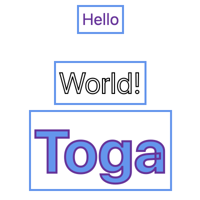
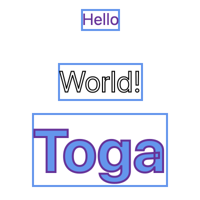
Make Cocoa draw text lines separately

Changed region(s): [[0.12, 0.3, 0.87, 0.96], [0.36, 0.0, 0.63, 0.18]]

diff --git a/testbed/tests/widgets/test_canvas.py b/testbed/tests/widgets/test_canvas.py
@@ -559,6 +559,13 @@ async def test_write_text(canvas, probe):
     hello_font = Font("Droid Serif", 12)
     hello_size = canvas.measure_text(hello_text, hello_font)
 
+    with canvas.Stroke(color=CORNFLOWERBLUE) as stroke:
+        stroke.rect(
+            100 - (hello_size[0] // 2),
+            10,
+            hello_size[0],
+            hello_size[1],
+        )
     with canvas.Fill(color=REBECCAPURPLE) as text_filler:
         text_filler.write_text(
             hello_text,
@@ -567,18 +574,18 @@ async def test_write_text(canvas, probe):
             font=hello_font,
             baseline=Baseline.TOP,
         )
-    with canvas.Stroke(color=CORNFLOWERBLUE) as stroke:
-        stroke.rect(
-            100 - (hello_size[0] // 2) - 4,
-            10 - 4,
-            hello_size[0] + 8,
-            hello_size[1] + 8,
-        )
 
     world_text = "World!"
     world_font = Font("Endor", 22)
     world_size = canvas.measure_text(world_text, font=world_font)
 
+    with canvas.Stroke(color=CORNFLOWERBLUE) as stroke:
+        stroke.rect(
+            100 - (world_size[0] // 2),
+            100 - world_size[1],
+            world_size[0],
+            world_size[1],
+        )
     with canvas.Stroke(line_width=1) as text_filler:
         text_filler.write_text(
             world_text,
@@ -587,18 +594,18 @@ async def test_write_text(canvas, probe):
             font=world_font,
             baseline=Baseline.BOTTOM,
         )
-    with canvas.Stroke(color=CORNFLOWERBLUE) as stroke:
-        stroke.rect(
-            100 - (world_size[0] // 2) - 4,
-            100 - world_size[1] - 4,
-            world_size[0] + 8,
-            world_size[1] + 8,
-        )
 
     toga_text = "Toga"
     toga_font = Font("Droid Serif", 45, weight=BOLD)
     toga_size = canvas.measure_text(toga_text, font=toga_font)
 
+    with canvas.Stroke(color=CORNFLOWERBLUE) as stroke:
+        stroke.rect(
+            100 - (toga_size[0] // 2),
+            150 - (toga_size[1] // 2),
+            toga_size[0],
+            toga_size[1],
+        )
     with canvas.Stroke(color=REBECCAPURPLE) as stroke:
         with stroke.Fill(color=CORNFLOWERBLUE) as text_filler:
             text_filler.write_text(
@@ -608,13 +615,6 @@ async def test_write_text(canvas, probe):
                 font=toga_font,
                 baseline=Baseline.MIDDLE,
             )
-    with canvas.Stroke(color=CORNFLOWERBLUE) as stroke:
-        stroke.rect(
-            100 - (toga_size[0] // 2) - 4,
-            150 - (toga_size[1] // 2) - 4,
-            toga_size[0] + 8,
-            toga_size[1] + 8,
-        )
 
     await probe.redraw("Text should be drawn")
     # 0.07 is quite a high error threshold; it's equivalent to 196 pixels being
@@ -629,7 +629,7 @@ async def test_multiline_text(canvas, probe):
 
     # Vertical guidelines
     X = [10, 75, 140]
-    with canvas.context.Stroke(color=RED, line_width=1) as guideline:
+    with canvas.context.Stroke(color=RED) as guideline:
         for x in X:
             guideline.move_to(x, 0)
             guideline.line_to(x, canvas.style.height)
@@ -651,7 +651,7 @@ async def test_multiline_text(canvas, probe):
         # Empty text
         text_filler.write_text("", X[2], y)
 
-    # Other baselines, with default font but fixed size
+    # Other baselines, with default font but specified size
     y = 130
     guideline.move_to(0, y)
     guideline.line_to(canvas.style.width, y)
@@ -664,13 +664,13 @@ async def test_multiline_text(canvas, probe):
         if baseline == Baseline.TOP:
             top = y
         elif baseline == Baseline.MIDDLE:
-            top = y - (height / 2)
+            top = round(y - (height / 2))
         elif baseline == Baseline.BOTTOM:
             top = y - height
         else:
             pytest.fail("Unknown baseline")
 
-        with canvas.context.Stroke(color=RED, line_width=1) as box:
+        with canvas.context.Stroke(color=CORNFLOWERBLUE) as box:
             box.rect(left, top, width, height)
 
         with canvas.context.Fill() as text_filler:

diff --git a/cocoa/src/toga_cocoa/widgets/canvas.py b/cocoa/src/toga_cocoa/widgets/canvas.py
@@ -19,7 +19,6 @@ from toga_cocoa.libs import (
     NSMutableDictionary,
     NSPoint,
     NSRect,
-    NSScreen,
     NSStrokeColorAttributeName,
     NSStrokeWidthAttributeName,
     NSView,
@@ -88,11 +87,6 @@ class Canvas(Widget):
 
         # Add the layout constraints
         self.add_constraints()
-
-        print(
-            "FIXME scale factors",
-            [screen.backingScaleFactor for screen in NSScreen.screens],
-        )
 
     def redraw(self):
         self.native.needsDisplay = True
@@ -266,30 +260,42 @@ class Canvas(Widget):
         )
         return text_string
 
+    # Although the native API can measure and draw multi-line strings, this makes the
+    # line spacing depend on the scale factor, which messes up the tests.
+    def _line_height(self, font):
+        return ceil(font.native.pointSize * 1.2)  # Common default used by browsers
+
     def measure_text(self, text, font):
         # We need at least a fill color to render, but that won't change the size.
-        rendered_string = self._render_string(text, font, fill_color=color(BLACK))
-        size = rendered_string.size()
-        return (ceil(size.width), ceil(size.height))
+        sizes = [
+            self._render_string(line, font, fill_color=color(BLACK)).size()
+            for line in text.splitlines()
+        ]
+        return (
+            ceil(max(size.width for size in sizes)),
+            self._line_height(font) * len(sizes),
+        )
 
     def write_text(self, text, x, y, font, baseline, **kwargs):
-        rendered_string = self._render_string(text, font, **kwargs)
+        lines = text.splitlines()
+        line_height = self._line_height(font)
+        total_height = line_height * len(lines)
+
         if baseline == Baseline.TOP:
             top = y
         elif baseline == Baseline.MIDDLE:
-            top = y - (rendered_string.size().height / 2)
+            top = y - (total_height / 2)
         elif baseline == Baseline.BOTTOM:
-            top = y - rendered_string.size().height
+            top = y - total_height
         else:
             # Default to Baseline.ALPHABETIC
             top = y - font.native.ascender
 
-        print(
-            f"FIXME {text=}, {y=}, pointSize={font.native.pointSize}, {baseline=}, "
-            f"height={rendered_string.size().height}, {font.native.ascender=}, {top=}"
-        )
         # Rounding gives more consistent results across different scale factors.
-        rendered_string.drawAtPoint(NSPoint(round(x), round(top)))
+        for line_num, line in enumerate(lines):
+            self._render_string(line, font, **kwargs).drawAtPoint(
+                NSPoint(round(x), round(top + (line_height * line_num)))
+            )
 
     def get_image_data(self):
         bitmap = self.native.bitmapImageRepForCachingDisplayInRect(self.native.bounds)
